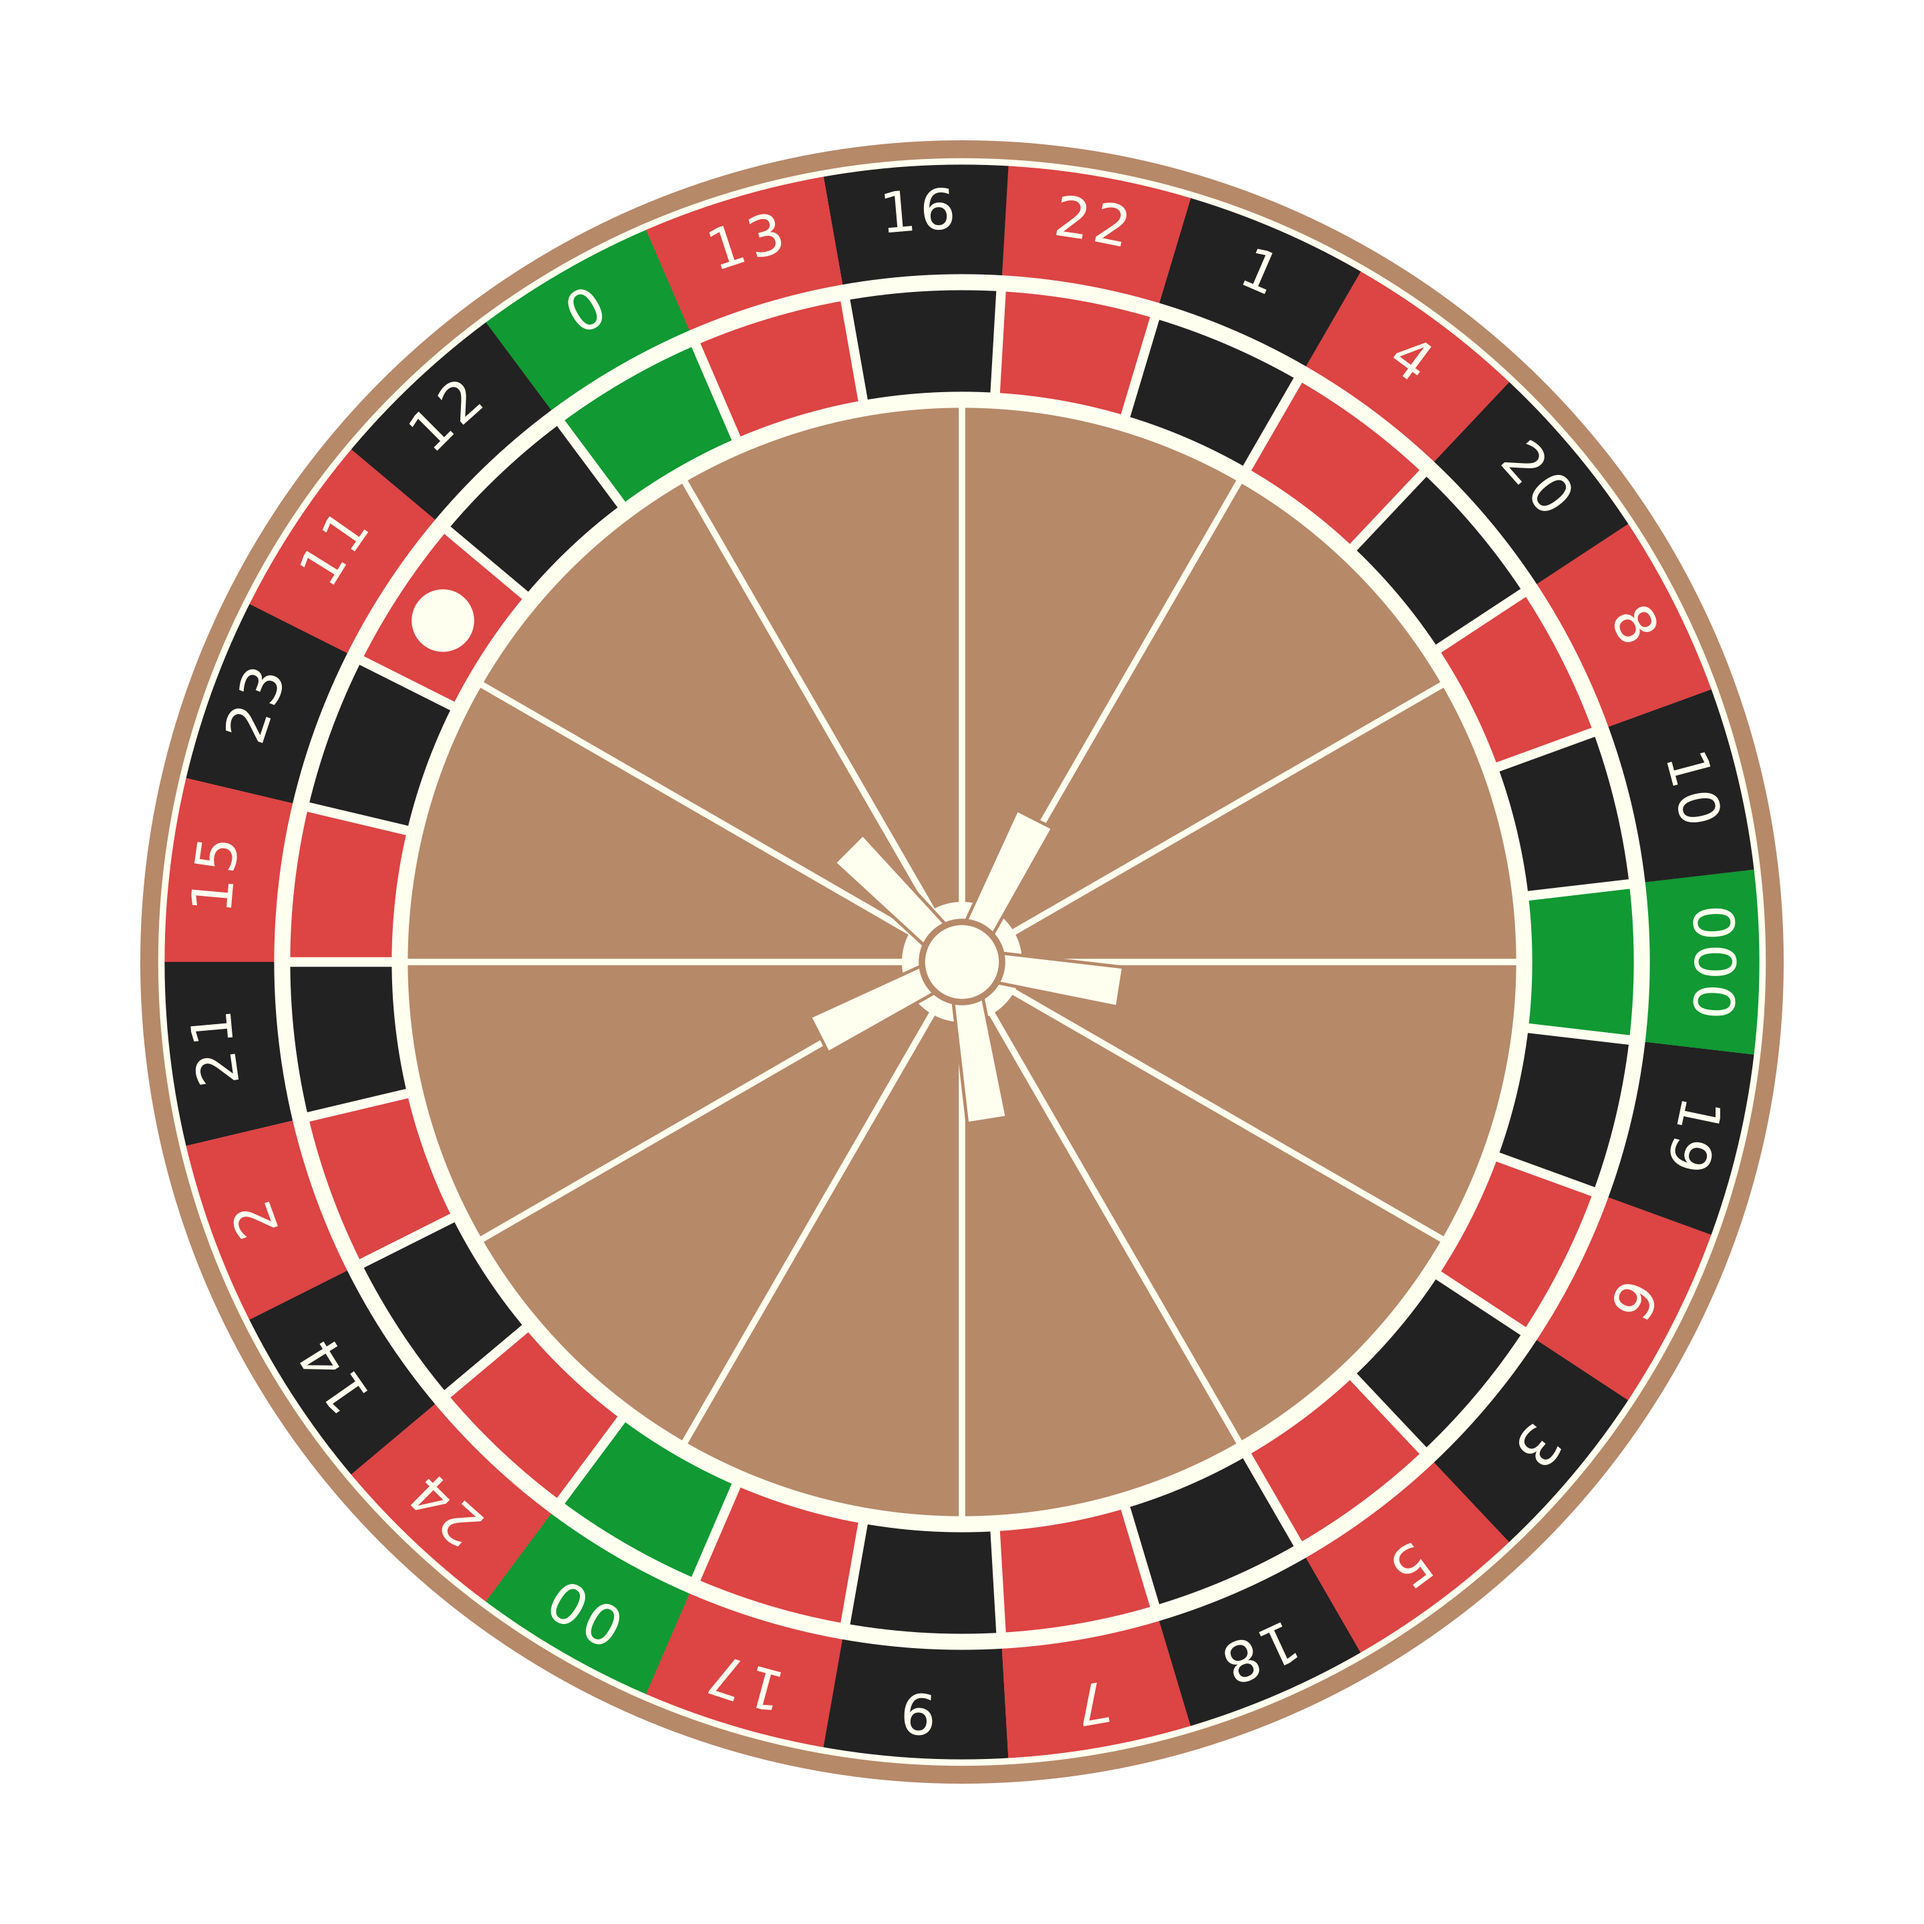
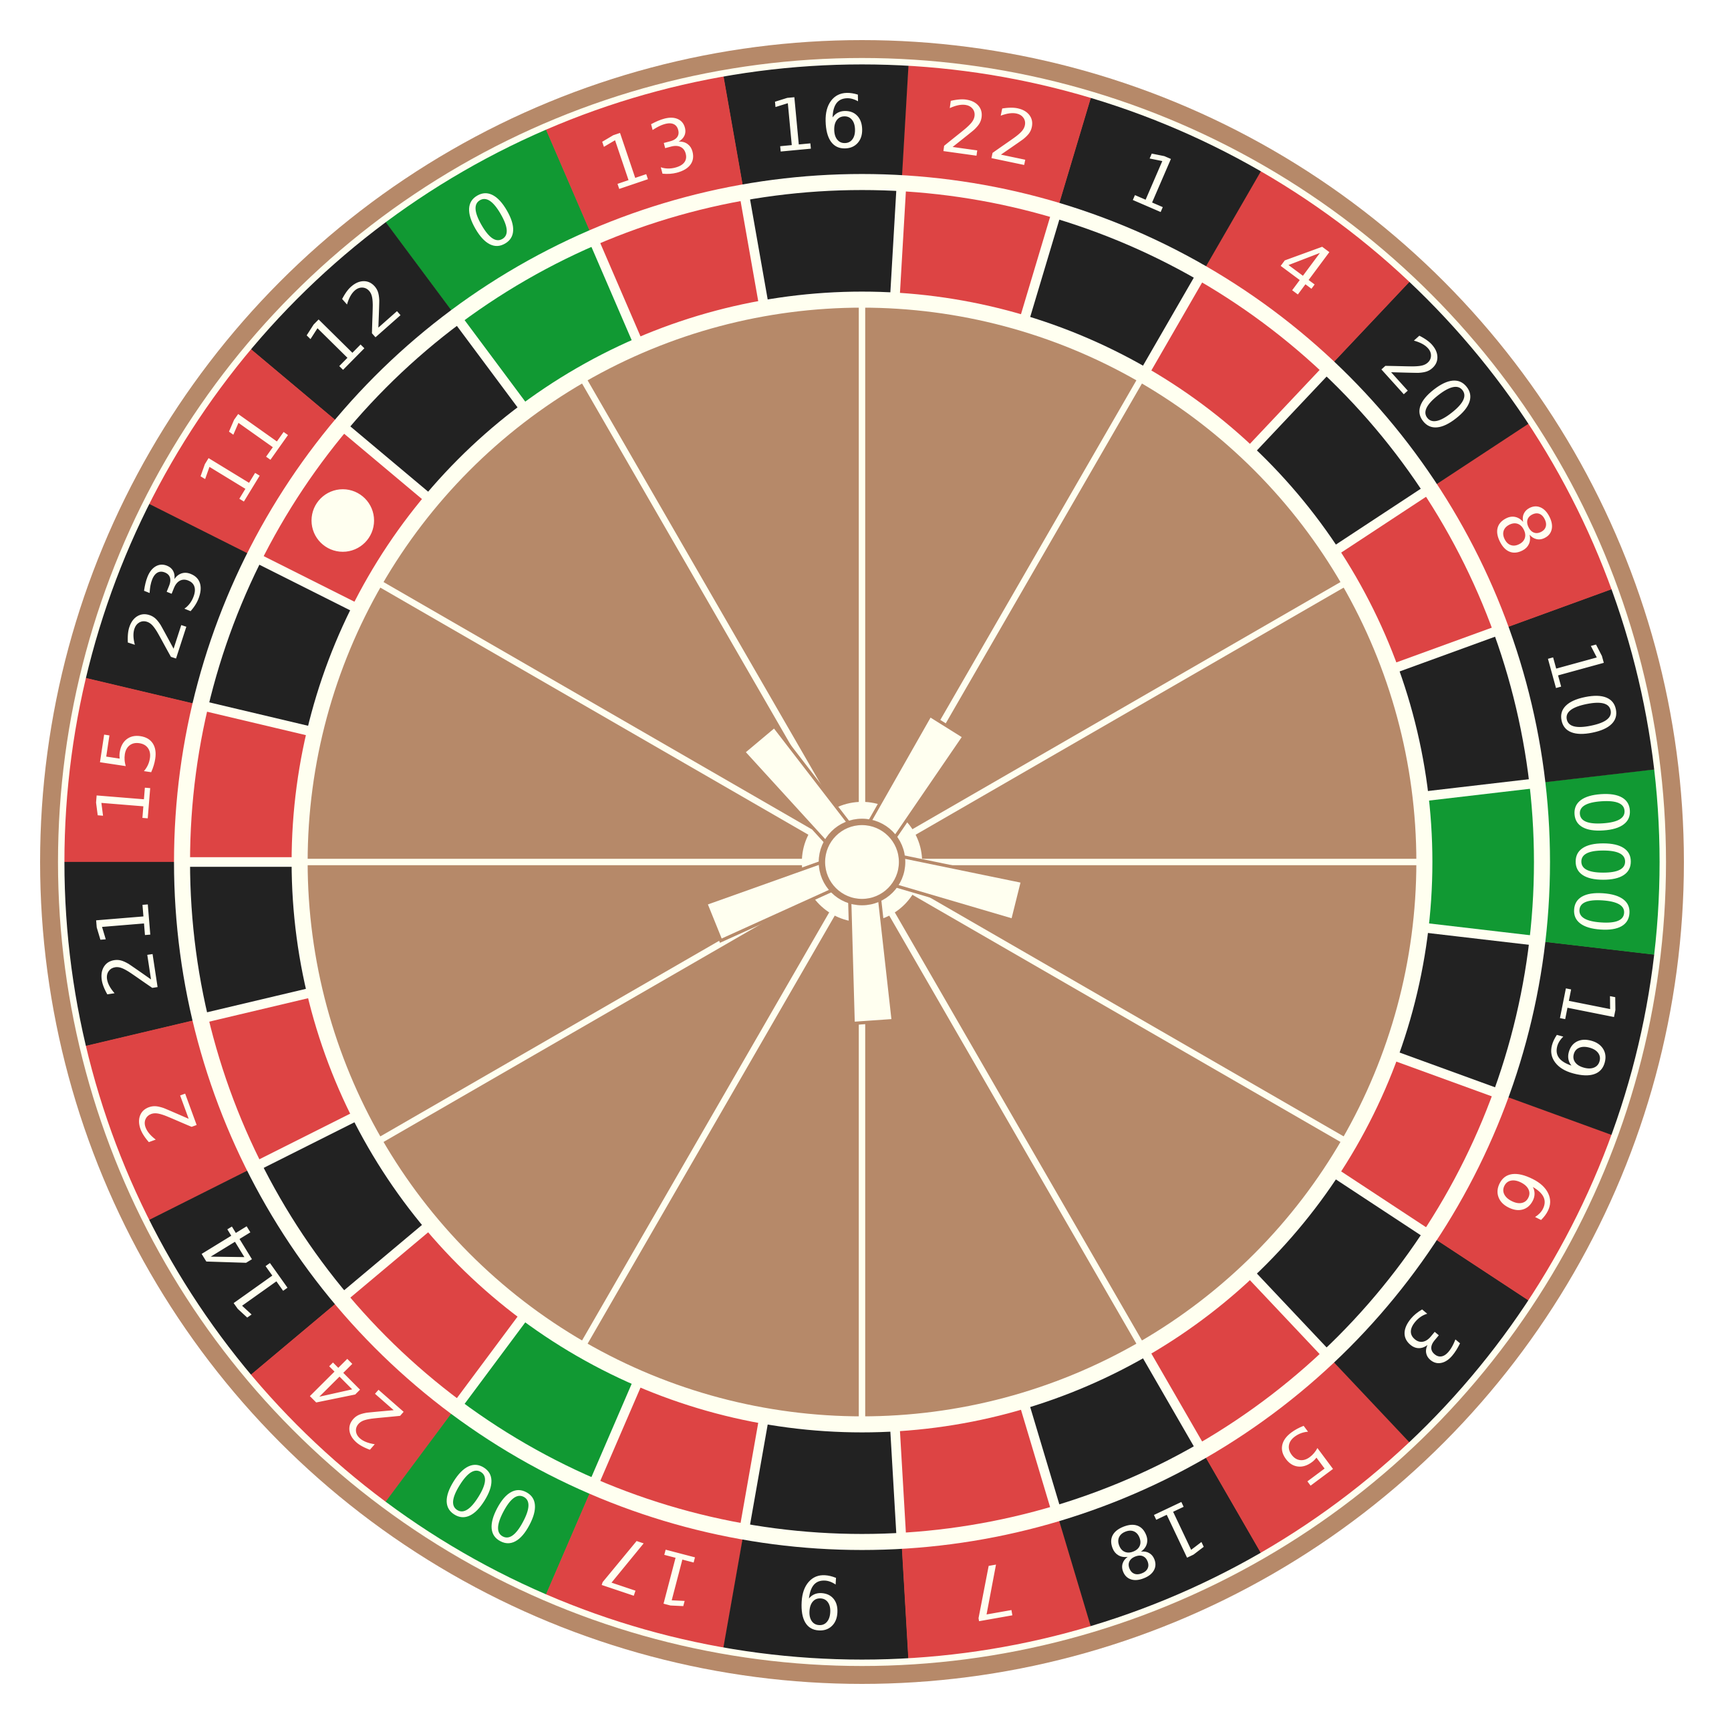
Minor changes

Changed region(s): [[0.0, 0.0, 0.9922, 0.9922], [0.4031, 0.4031, 0.5891, 0.5891]]

diff --git a/draw_roulette.py b/draw_roulette.py
@@ -3,8 +3,7 @@ import drawSvg as draw
 from numpy.random.mtrand import random
 
 
-def draw_roulette(billes=[], numbers=None, americaine=False, handles=5, phase=0, h_phase=30, random_seed=None):
-    margin = 0.2
+def draw_roulette(billes=[], numbers=None, americaine=False, margin = 0.2, handles=5, phase=0, h_phase=30, random_seed=None):
     board_margin = 0.025
     inner_rays_factor = 2.5
     l_handle, w_handle = 0.2, 0.05
@@ -58,7 +57,7 @@ def draw_roulette(billes=[], numbers=None, americaine=False, handles=5, phase=0,
 
     r_out, r_mid, r_in = 1, 0.85, 0.7
     nb_width = 360 / len(numbers)
-    d = draw.Drawing(2 * (1 + margin), 2 * (1 + margin), origin='center', displayInline=False)
+    d = draw.Drawing(2 * (1 + board_margin + margin), 2 * (1 + board_margin + margin), origin='center', displayInline=False)
     # Board
     d.append(draw.Circle(0, 0, (1 + board_margin)* r_out, fill=k_outside))
     # Draw multiple circular arcs
@@ -81,7 +80,7 @@ def draw_roulette(billes=[], numbers=None, americaine=False, handles=5, phase=0,
     for n in numbers:
         path = ps.pop(0)
         d.append(draw.Line(r_in * np.cos((angle - nb_width / 2) / 180 * np.pi), r_in * np.sin((angle - nb_width / 2) / 180 * np.pi), r_mid * np.cos((angle - nb_width / 2) / 180 * np.pi), r_mid * np.sin((angle - nb_width / 2) / 180 * np.pi), stroke=k_border, stroke_width=3 * sw_ring))
-        d.append(draw.Text(written_number(n), 0.07, fill=k_border, path=path, center=True, lineOffset=-25.6))
+        d.append(draw.Text(written_number(n), 0.09, fill=k_border, path=path, center=True, lineOffset=-19.75))
         b = billes.count(n)
         if b:
             d.append(draw.Circle((r_mid + r_in) / 2 * np.cos(angle / 180 * np.pi), (r_mid + r_in) / 2 * np.sin(angle / 180 * np.pi), 0.035, fill=k_border, stroke=k_border, stroke_width=2 * sw_ring))

diff --git a/README.md b/README.md
@@ -20,7 +20,7 @@
 
 ## Résolution mathématique
 
-### Modèle binomal et généralisation
+### Modèle binomial et généralisation
 
 * ruine +1 -1
 * ruine +1 -n
